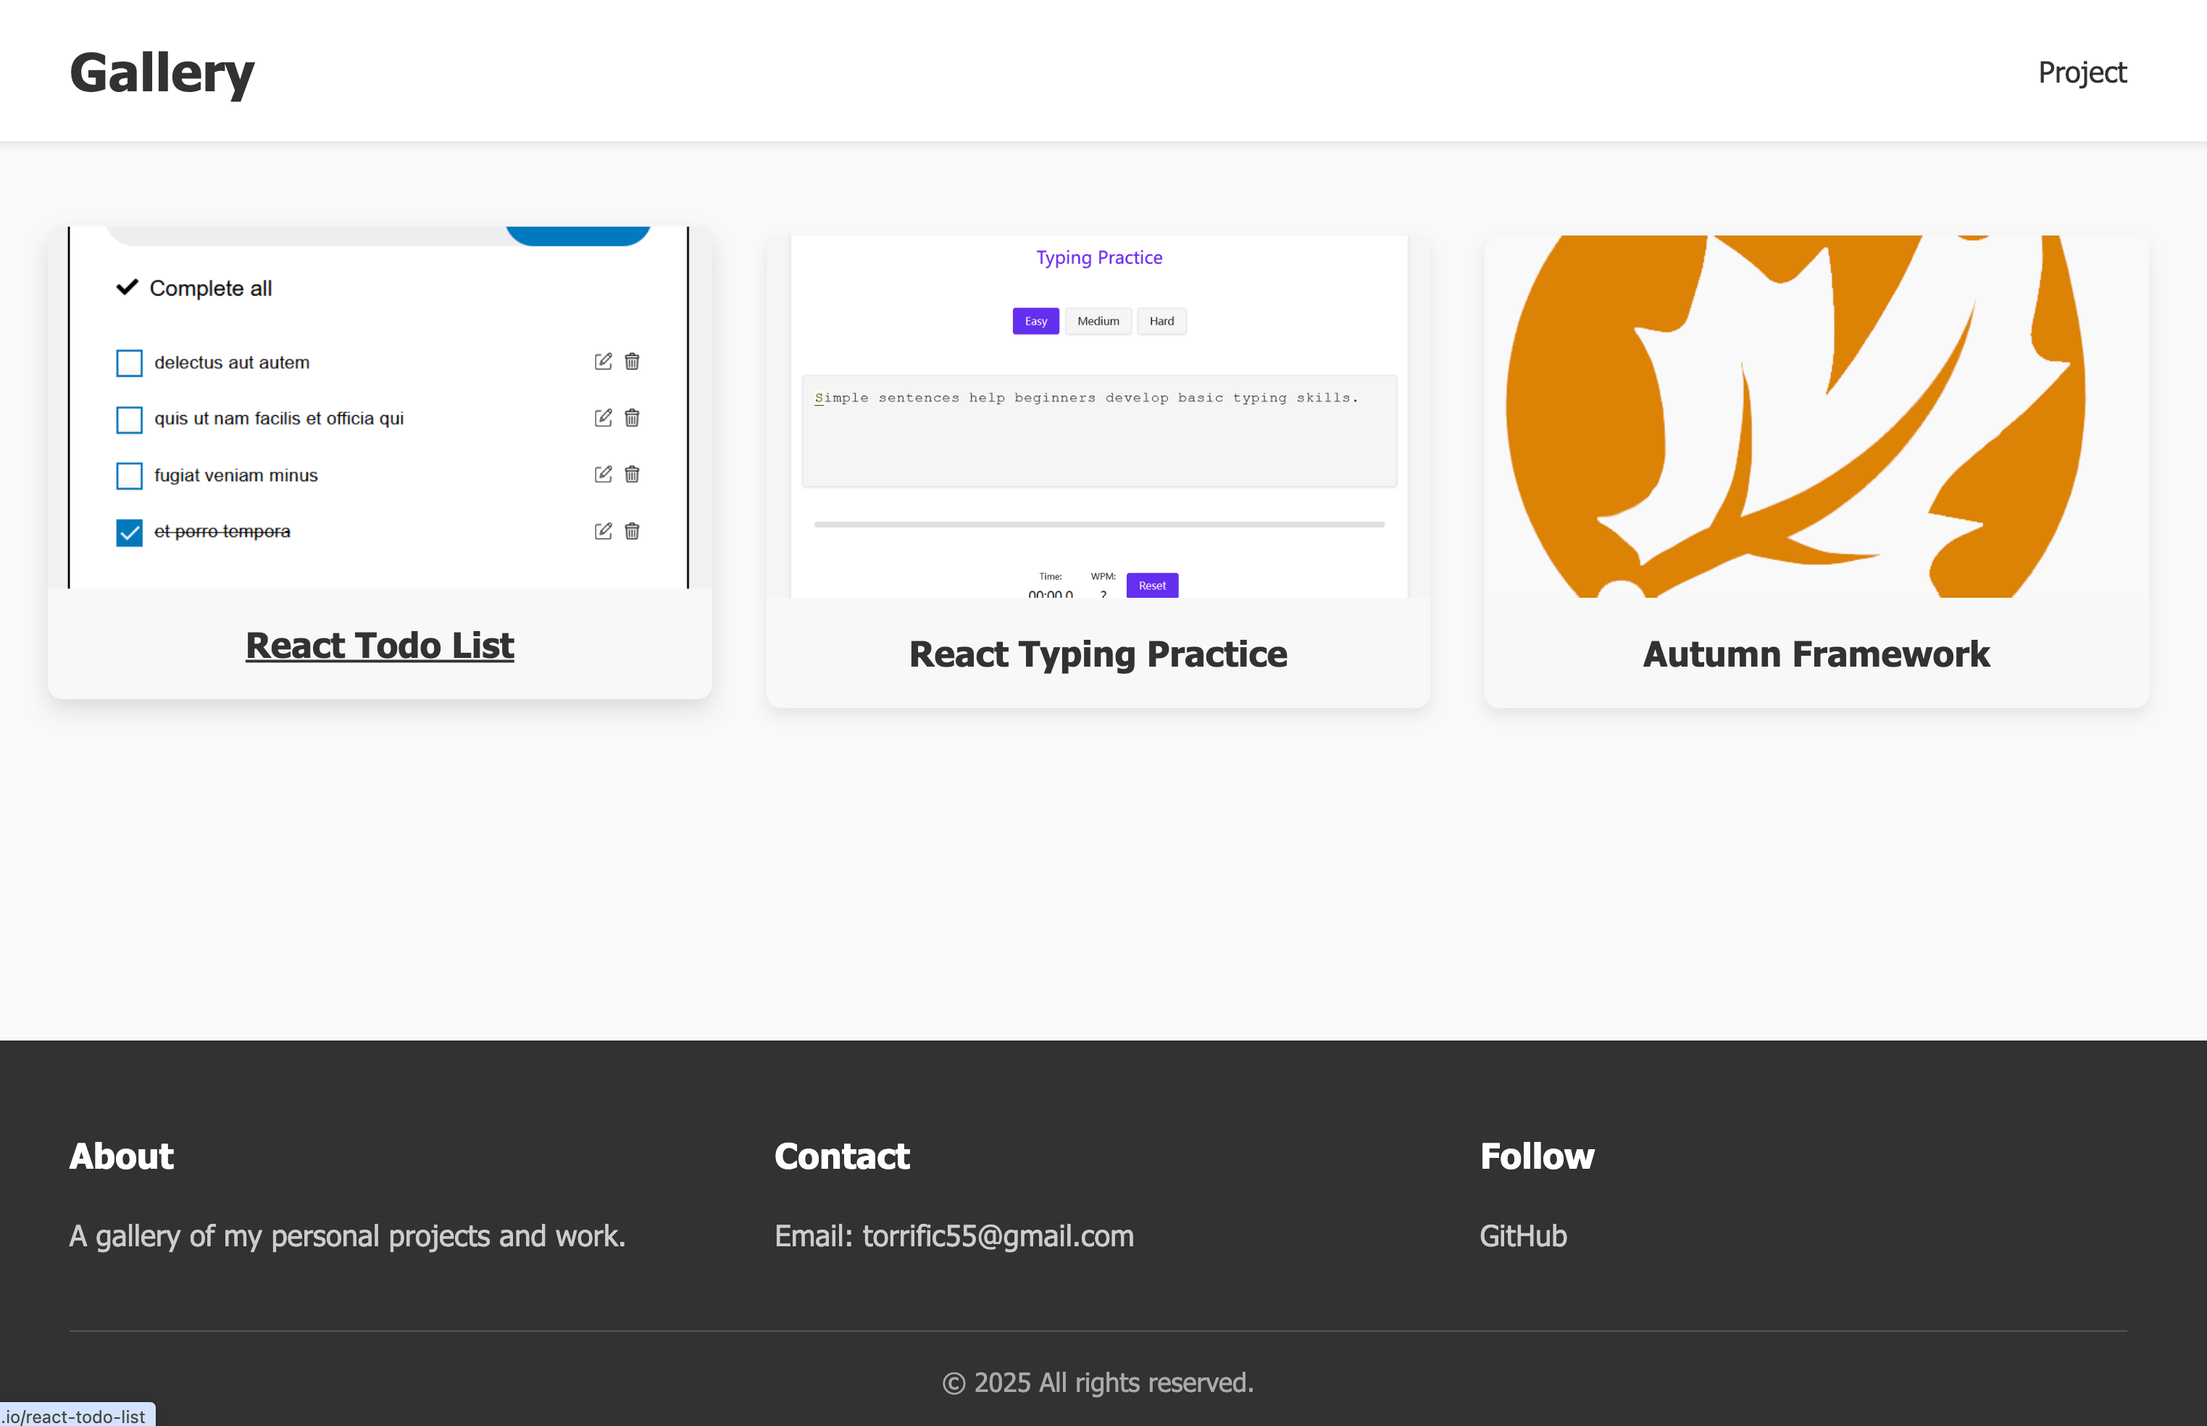
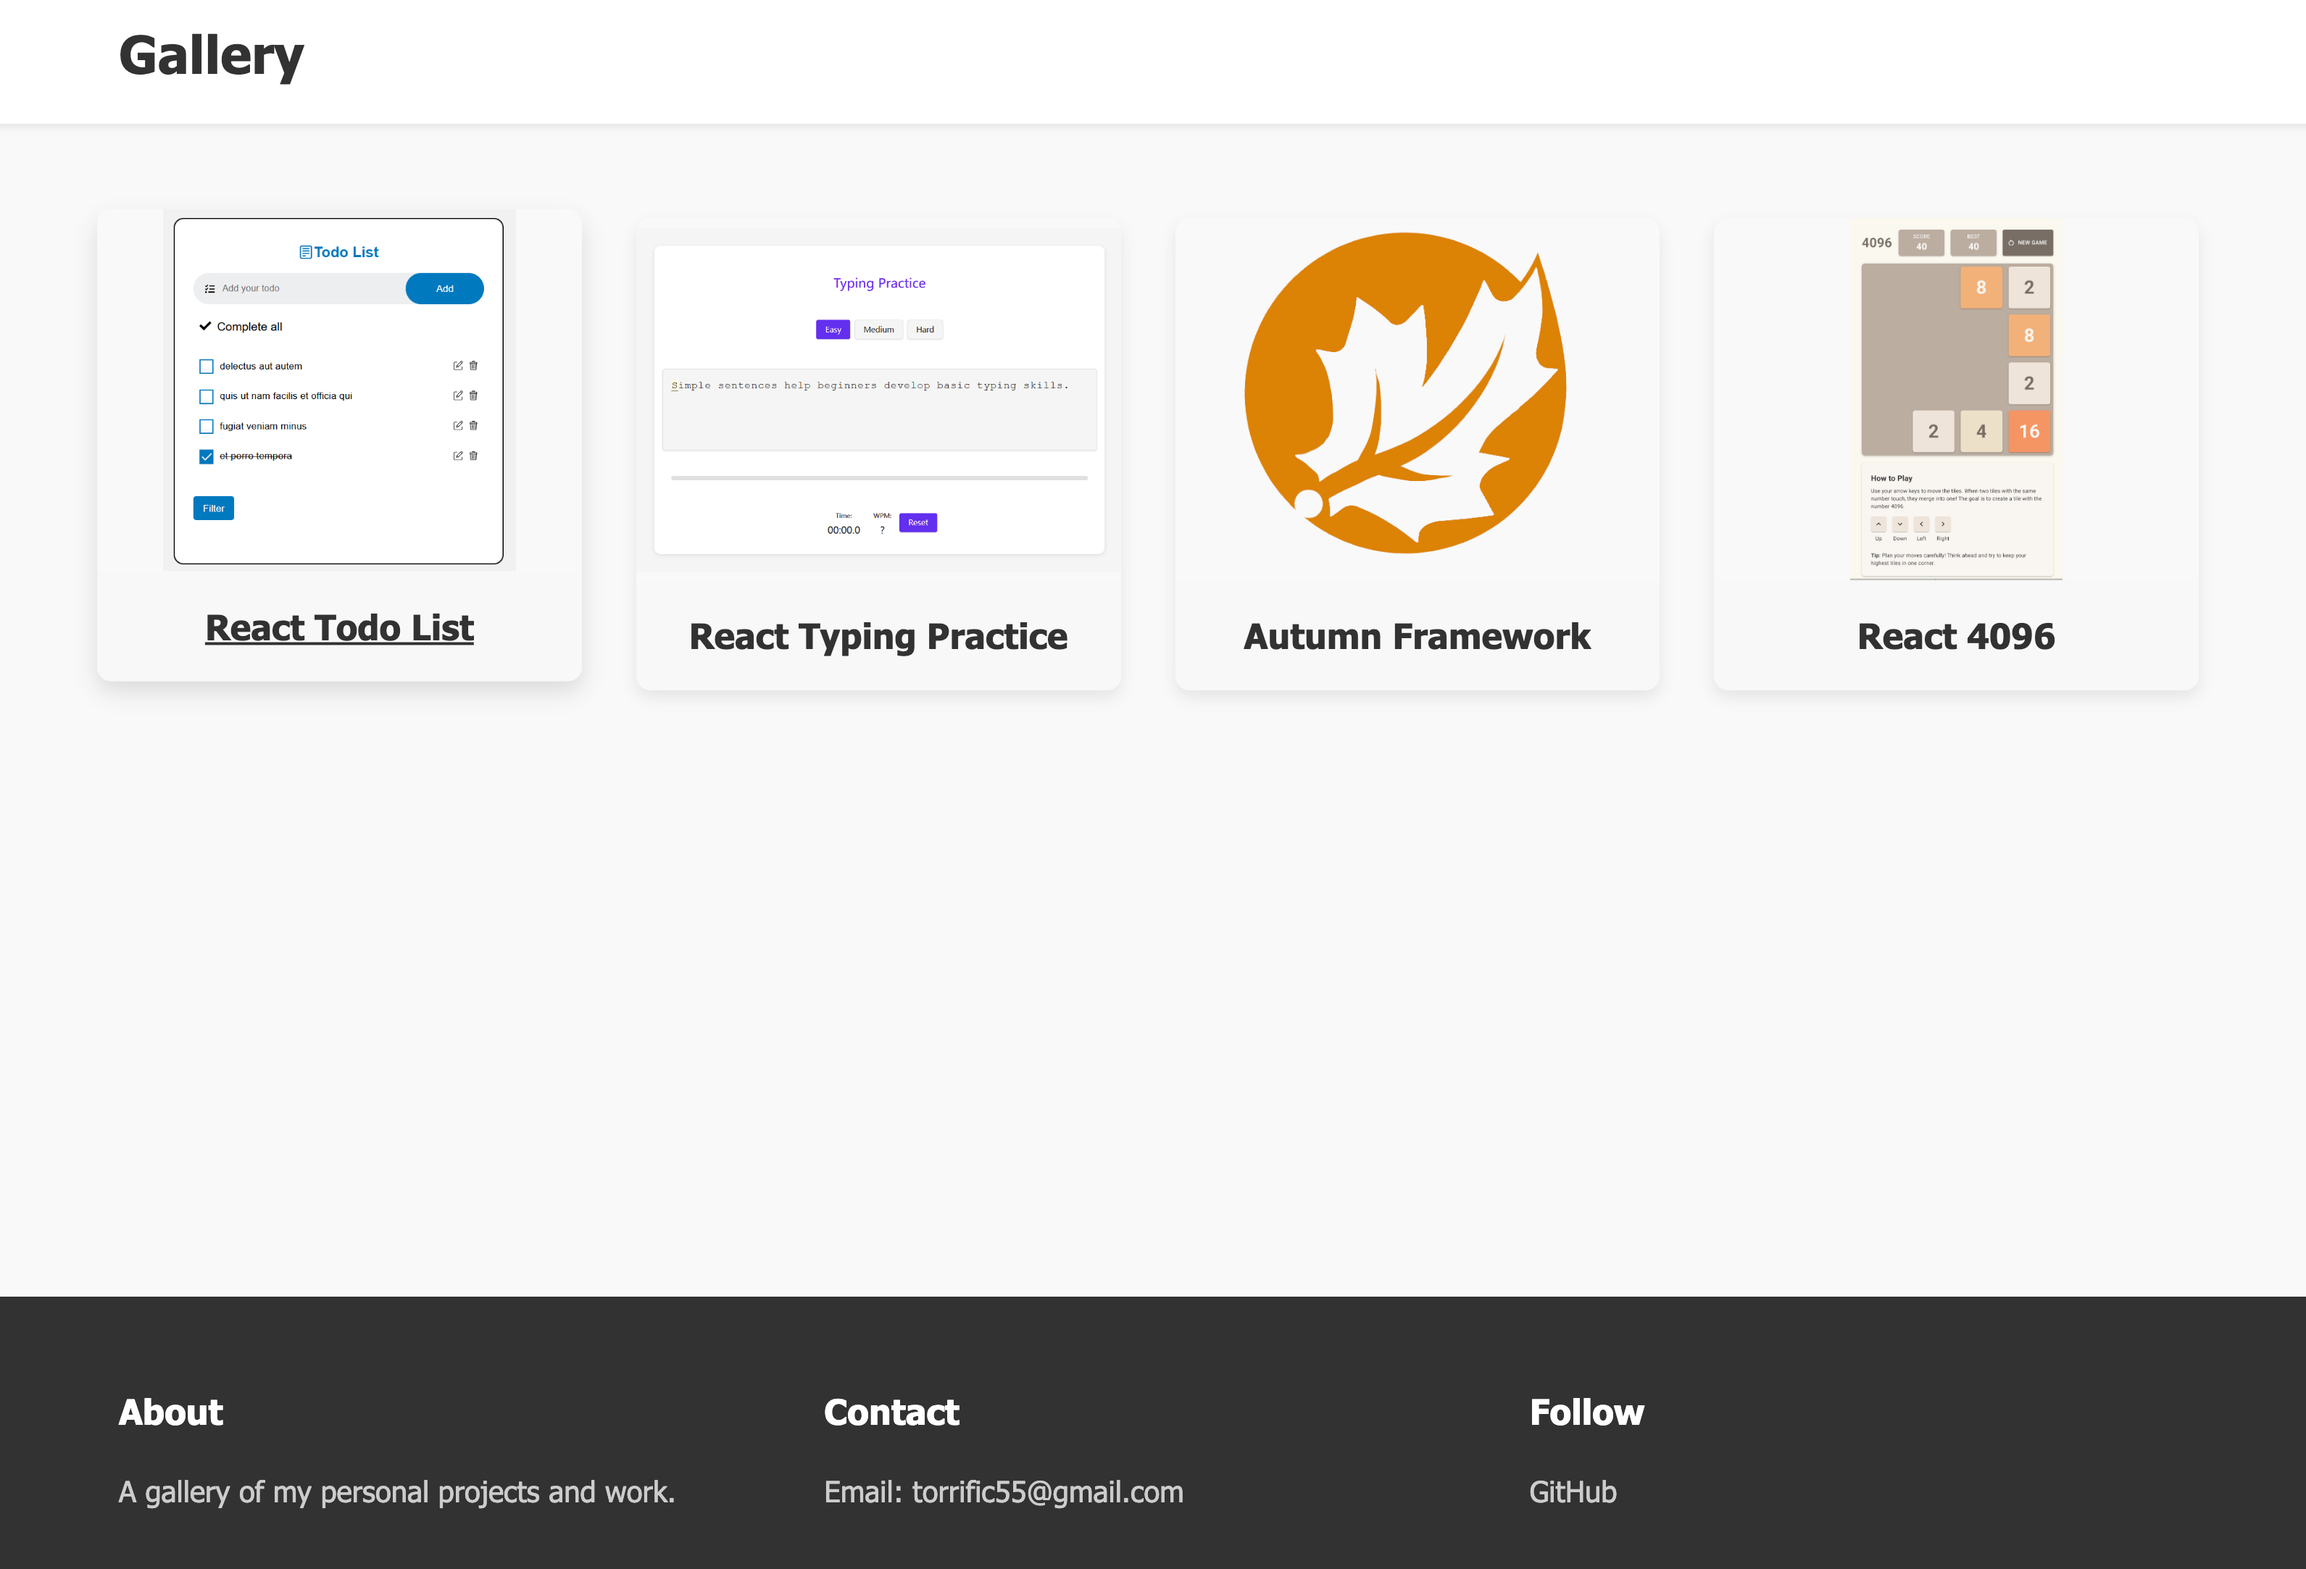
layout minor fix

diff --git a/src/components/Header.jsx b/src/components/Header.jsx
@@ -6,13 +6,15 @@ const Header = () => {
         <header className="header">
             <div className="header-container">
                 <div className="logo">
-                    <h1>Gallery</h1>
+                    <a href="https://github.com/NuclearMissile/frontend-gallery" target="_blank">
+                        <h1>Gallery</h1>
+                    </a>
                 </div>
-                <nav className="nav">
-                    <ul>
-                        <li><a href="https://github.com/NuclearMissile/frontend-gallery">Project</a></li>
-                    </ul>
-                </nav>
+                {/*<nav className="nav">*/}
+                {/*    <ul>*/}
+                {/*        <li><a href="https://github.com/NuclearMissile/frontend-gallery">Project</a></li>*/}
+                {/*    </ul>*/}
+                {/*</nav>*/}
             </div>
         </header>
     );

diff --git a/src/components/Header.css b/src/components/Header.css
@@ -22,23 +22,28 @@
   margin: 0;
 }
 
-.nav ul {
-  display: flex;
-  list-style: none;
-  gap: 2rem;
-}
-
-.nav a {
-  color: #333;
-  font-weight: 500;
-  text-decoration: none;
-  transition: color 0.3s ease;
-}
-
-.nav a:hover {
-  color: #0066cc;
+.logo a:hover {
+  color: inherit;
   text-decoration: none;
 }
+
+/*.nav ul {*/
+/*  display: flex;*/
+/*  list-style: none;*/
+/*  gap: 2rem;*/
+/*}*/
+
+/*.nav a {*/
+/*  color: #333;*/
+/*  font-weight: 500;*/
+/*  text-decoration: none;*/
+/*  transition: color 0.3s ease;*/
+/*}*/
+
+/*.nav a:hover {*/
+/*  color: #0066cc;*/
+/*  text-decoration: none;*/
+/*}*/
 
 /* Responsive adjustments */
 @media (max-width: 768px) {
